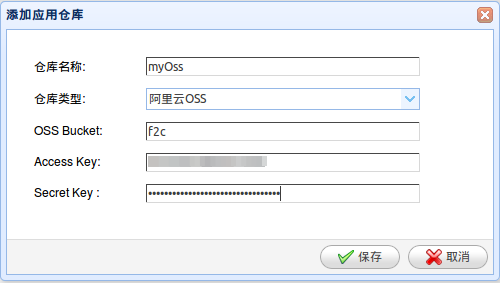
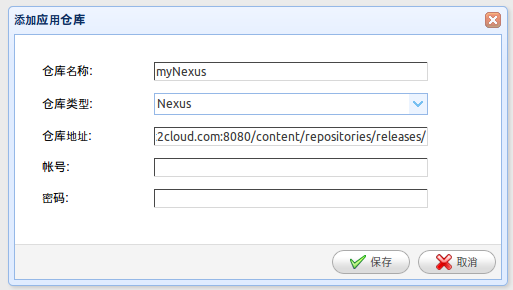
修改文档

diff --git a/source/aliyun_codedeploy.rst b/source/aliyun_codedeploy.rst
@@ -1,10 +1,34 @@
-阿里云：代码部署功能快速入门
+阿里云：代码部署功能指南
 ====================================
+| FIT2CLOUD提供了代码部署功能，它可以帮助开发人员自动化的部署任意指定版本的应用程序到一组虚机上。
+| 整个部署过程是可视的、可控、标准化的。FIT2CLOUD代码部署服务和AWS CodeDeploy类似，我们也兼容AWS CodeDeploy
+| 所定义的应用Artifact格式。 
 |
-|    FIT2CLOUD提供了代码部署功能，它可以帮助开发人员自动化的部署任意指定版本的应用程序到虚机上。整个部署过程全程可视化。
-|    
+| 和传统部署方式相比：FIT2CLOUD和AWS代码部署的特点是：
+| **1) 应用代码和部署脚本是一体的。**
+| 如下图所示，应用artifact zip包中除了包括带部署的WordPress应用代码外，还包括appspec.yml和scripts目录，
+| appspec.yml文件定义了这个应用是如何进行部署的。部署中要执行的脚本全部放在scripts目录下面。
+|
+.. image:: _static/code_deploy_artifact_spec.png
+|
+| **2) 应用架构采用SOA/微服务，支持各个应用组件的局部独立部署。**
+|
+| 这里, 我们仍然以快速入门里的wordpress网站为例, 介绍如何使用FIT2CLOUD代码部署服务来部署WordPress应用。
 
-一: 创建代码仓库
+一: 应用打包、并上传到仓库中
+-------------------------------------
+|
+| 请参考我们在GitHub上面的示例WordPress工程： `WordPress <https://github.com/fit2cloud/WordPress>`_
+| 这个工程中新增中文件包括：
+| 1) pom.xml/assembly.xml: 我们使用maven来打包应用artifact，并发布到Nexus仓库中去。
+| 2) appspec.yml: 这个文件定义了应用部署中各个hooks所绑定的脚本。
+| 3) scripts/change_permissions.sh等: 这个目录中包括WordPress部署时需要执行的脚本。
+|
+| 除了上传到Nexus仓库外，FIT2CLOUD还支持用阿里云OSS来存储Artifact。我们提供了Jenkins插件，用户可以非常方便的在
+| Jenkins构建后将artifact上传到阿里云OSS中。具体请参考：
+| `在Jenkins持续集成方案中使用阿里云OSS作为Artifacts仓库 <http://blog.fit2cloud.com/2015/01/20/aliyun-oss-jenkins-plugin.html>`_
+|
+二: 创建代码仓库
 -------------------------------------
 |
 | **1) 在导航栏中"代码部署"项里, 选择"仓库管理"**
@@ -15,8 +39,9 @@
 |
 .. image:: _static/011-CodeDeploy-2-CreateApplicationRepo.png
 |
-|  目前FIT2CLOUD支持"阿里云OSS"及"Nexus"两种类型仓库的创建。
-|
+| 1) 仓库名称：myNexus
+| 2) 仓库类型：Nexus
+| 3）仓库地址：http://repository-proxy.fit2cloud.com:8080/content/repositories/releases/ 
 |
 | **3) 在代码仓库列表中查看刚刚创建的仓库的状态**
 |
@@ -24,8 +49,7 @@
 |
 |  只有状态为"有效"的仓库才能在后续的步骤中被使用到。若状态为“无效”，请检查仓库的相关配置信息是否填写正确。
 |
-|
-二: 新建应用程序
+三: 新建应用程序
 -------------------------------------
 |
 | **1) 在导航栏中"代码部署"项里, 选择"应用管理"**
@@ -41,20 +65,25 @@
 .. image:: _static/011-CodeDeploy-6-ApplicationList.png
 |
 |
-三: 添加应用程序版本
+四: 添加应用程序版本
 -------------------------------------
 |
-| **1) 在上一个步骤中的应用列表里，点击应用程序对应的"版本数量"，进入到添加应用程序版本页面，添加应用版本**
-|
-.. image:: _static/011-CodeDeploy-7-ApplicationRevisionList.png
-|
-| **2) 填写应用版本的相关信息并保存**
+| **1) 在上一个步骤中的应用列表里，点击"版本数量"，进入到添加应用程序版本页面，添加应用版本**
 |
 .. image:: _static/011-CodeDeploy-8-AddApplicationRevision.png
 |
-|  添加应用版本时，若无对应仓库，您也可以在“仓库类型”中选择“无”，并将应用程序的完整下载地址填写到“版本下载地址”中。
-|
-四: 部署应用
+| 1) 版本名称：build-16
+| 2) 仓库类型：Nexus
+| 3) 选择仓库：myNexus
+| 3）存放路径：com/fit2cloud/example/wordpress/4.2/wordpress-4.2-bin-201501290222-16.zip
+| 
+| 填写完毕后，保存即可。实际上，这个应用的artifact下载全地址即为：
+.. code:: python
+
+	
+http://repository-proxy.fit2cloud.com:8080/content/repositories/releases/com/fit2cloud/example/wordpress/4.2/wordpress-4.2-bin-201501290222-16.zip
+
+五: 部署应用
 -------------------------------------
 |
 | **1) 在应用程序版本列表里，点击应用版本对应的"部署"，填写应用版本的相关信息并保存**
@@ -68,8 +97,7 @@
 |  > 单台依次部署
 |  当您选择“保存”后，FIT2CLOUD后台将会开始进行代码部署的工作。
 |
-|
-五: 查看部署
+六: 查看部署过程和结果
 -------------------------------------
 |
 | **1) 在导航栏中"代码部署"项里, 选择"部署记录"**
@@ -81,19 +109,15 @@
 |
 .. image:: _static/011-CodeDeploy-11-DeploymentList.png
 |
-|
 | **3) 点击部署记录对应的"详细信息"按键查看对应的各个虚机部署情况**
 |
 .. image:: _static/011-CodeDeploy-12-DeploymentLogList.png
-|
 |
 | **4) 点击单台虚机对应的"详细信息"按键查看该虚机的具体部署过程**
 |
 .. image:: _static/011-CodeDeploy-13-DeploymentEventLogList.png
 |
-|
 | **4) 点击单台虚机对应的"详细信息"按键查看该虚机的具体部署过程**
 |
 .. image:: _static/011-CodeDeploy-14-DeploymentEventLogData.png
-|
 |

diff --git a/source/enterprise.rst b/source/enterprise.rst
@@ -1,4 +1,43 @@
-FIT2CLOUD企业版(即将发布)
---------------------------------------
+FIT2CLOUD企业版(阿里云)
+=====================================
+| FIT2CLOUD企业版部署在企业自己的云账户中，完全由企业自主控制，确保安全。企业版中的用户帐号由企业自己创建、管理。
+| 目前我们只推出针对阿里云的企业版。这里，我们简要企业版的订购、安装和使用过程。
 
-FIT2CLOUD企业版,即将发布... ...
+一: 在阿里云工具市场中订购FIT2CLOUD企业版
+-------------------------------------------------------------------------
+| FIT2CLOUD在阿里云工具市场中售卖。企业版分为免费版本、100虚机版和200虚机版，免费版本可以最多可以管理20台虚机，
+| 100虚机版可以最多可以管理100台虚机，200虚机版最多可以管理200台虚机。免费版本可以无缝升级到100虚机版和200虚机版。
+| 所以，用户可以先订购免费版本，当虚机数量超过20后再升级到付费版本。
+|
+| 我们在收到您的订单后，会给你提供FIT2CLOUD企业版的安装命令和文档。
+
+二: 准备安装环境
+-------------------------------------------------------------------------
+| 用户需要准备一台单独的虚机来安装FIT2CLOUD企业版。这台虚机的配置要求是：
+
+.. image:: _static/enterprise_install_requirement.png
+
+| 我们推荐用户订购一台2核8G的包月虚机来部署FIT2CLOUD企业版
+
+三: 安装企业版
+-------------------------------------------------------------------------
+| 虚机准备完成后，切换到root帐号下，执行命令开始安装：
+
+.. code:: python
+
+	ORDER_ID=订单号 bash -c "$(curl -sSL http://repository.fit2cloud.com/content/repositories/fit2cloud-public/com/fit2cloud/installer/install-aliyun-enterprise/0.1/install-aliyun-enterprise-0.1.sh)"
+	
+| 安装脚本会先检查环境和订单号，如果验证通过，系统就用开始自动安装。正常情况下，整个自动化安装过程需要花费5分钟。
+| 安装完成后，会显示安装成功的提示。
+
+四: 管理员登录并管理
+-------------------------------------------------------------------------
+| 管理员的默认帐号为： admin/fitTocloud2015 。管理员登录URL为：http://机器公有IP/
+| 首次登录后，请修改密码。
+| 
+| 创建用户：管理员登录后，可以创建FIT2CLOUD用户。
+| 系统设置：用户需要配置告警邮件发送的SMTP信息。
+
+五: 用户登录并使用Fit2Cloud
+-------------------------------------------------------------------------
+| 请参考我们的在线文档。

diff --git a/source/001_what_is_fit2cloud.rst b/source/001_what_is_fit2cloud.rst
@@ -1,8 +1,8 @@
 FIT2CLOUD是什么?
 =====================================
 
-FIT2CLOUD是一个建立在IaaS之上的云管理及DevOps协作平台，帮助企业提高云成熟度，实现云资源创建自动化、
-服务器自动化、混合云管理、应用部署升级自动化、持续交付。基于FIT2CLOUD，企业可以实现应用全生命周期的
+FIT2CLOUD是一个建立在IaaS之上的云管理及DevOps协作平台，帮助企业更好地使用云来加速业务创新，实现云资源创建自动化、
+服务器配置安装自动化、混合云管理、应用部署升级自动化、持续交付。基于FIT2CLOUD，企业可以实现应用全生命周期的
 自动化管理，打通从代码到服务的转化通道，实现云应用的持续交付和自动化运维。
 
 FIT2CLOUD目前支持阿里云、微软Azure、亚马逊AWS和青云QingCloud。未来，FIT2CLOUD将支持更多的公有云和私有云

diff --git a/source/advance.rst b/source/advance.rst
@@ -8,9 +8,9 @@ FIT2CLOUD使用指南
    set_autoscale
    set_security_group
    add_cluster_monitoring
+   set_rds_aliyun
+   set_slb_aliyun
    use_customized_image
    integrate
    f2cadmin
-   
-   
-
+   enterprise

diff --git a/source/index.rst b/source/index.rst
@@ -13,7 +13,6 @@ FIT2CLOUD在线文档
    get_started
    advance
    faq
-   enterprise
    references
    
 
